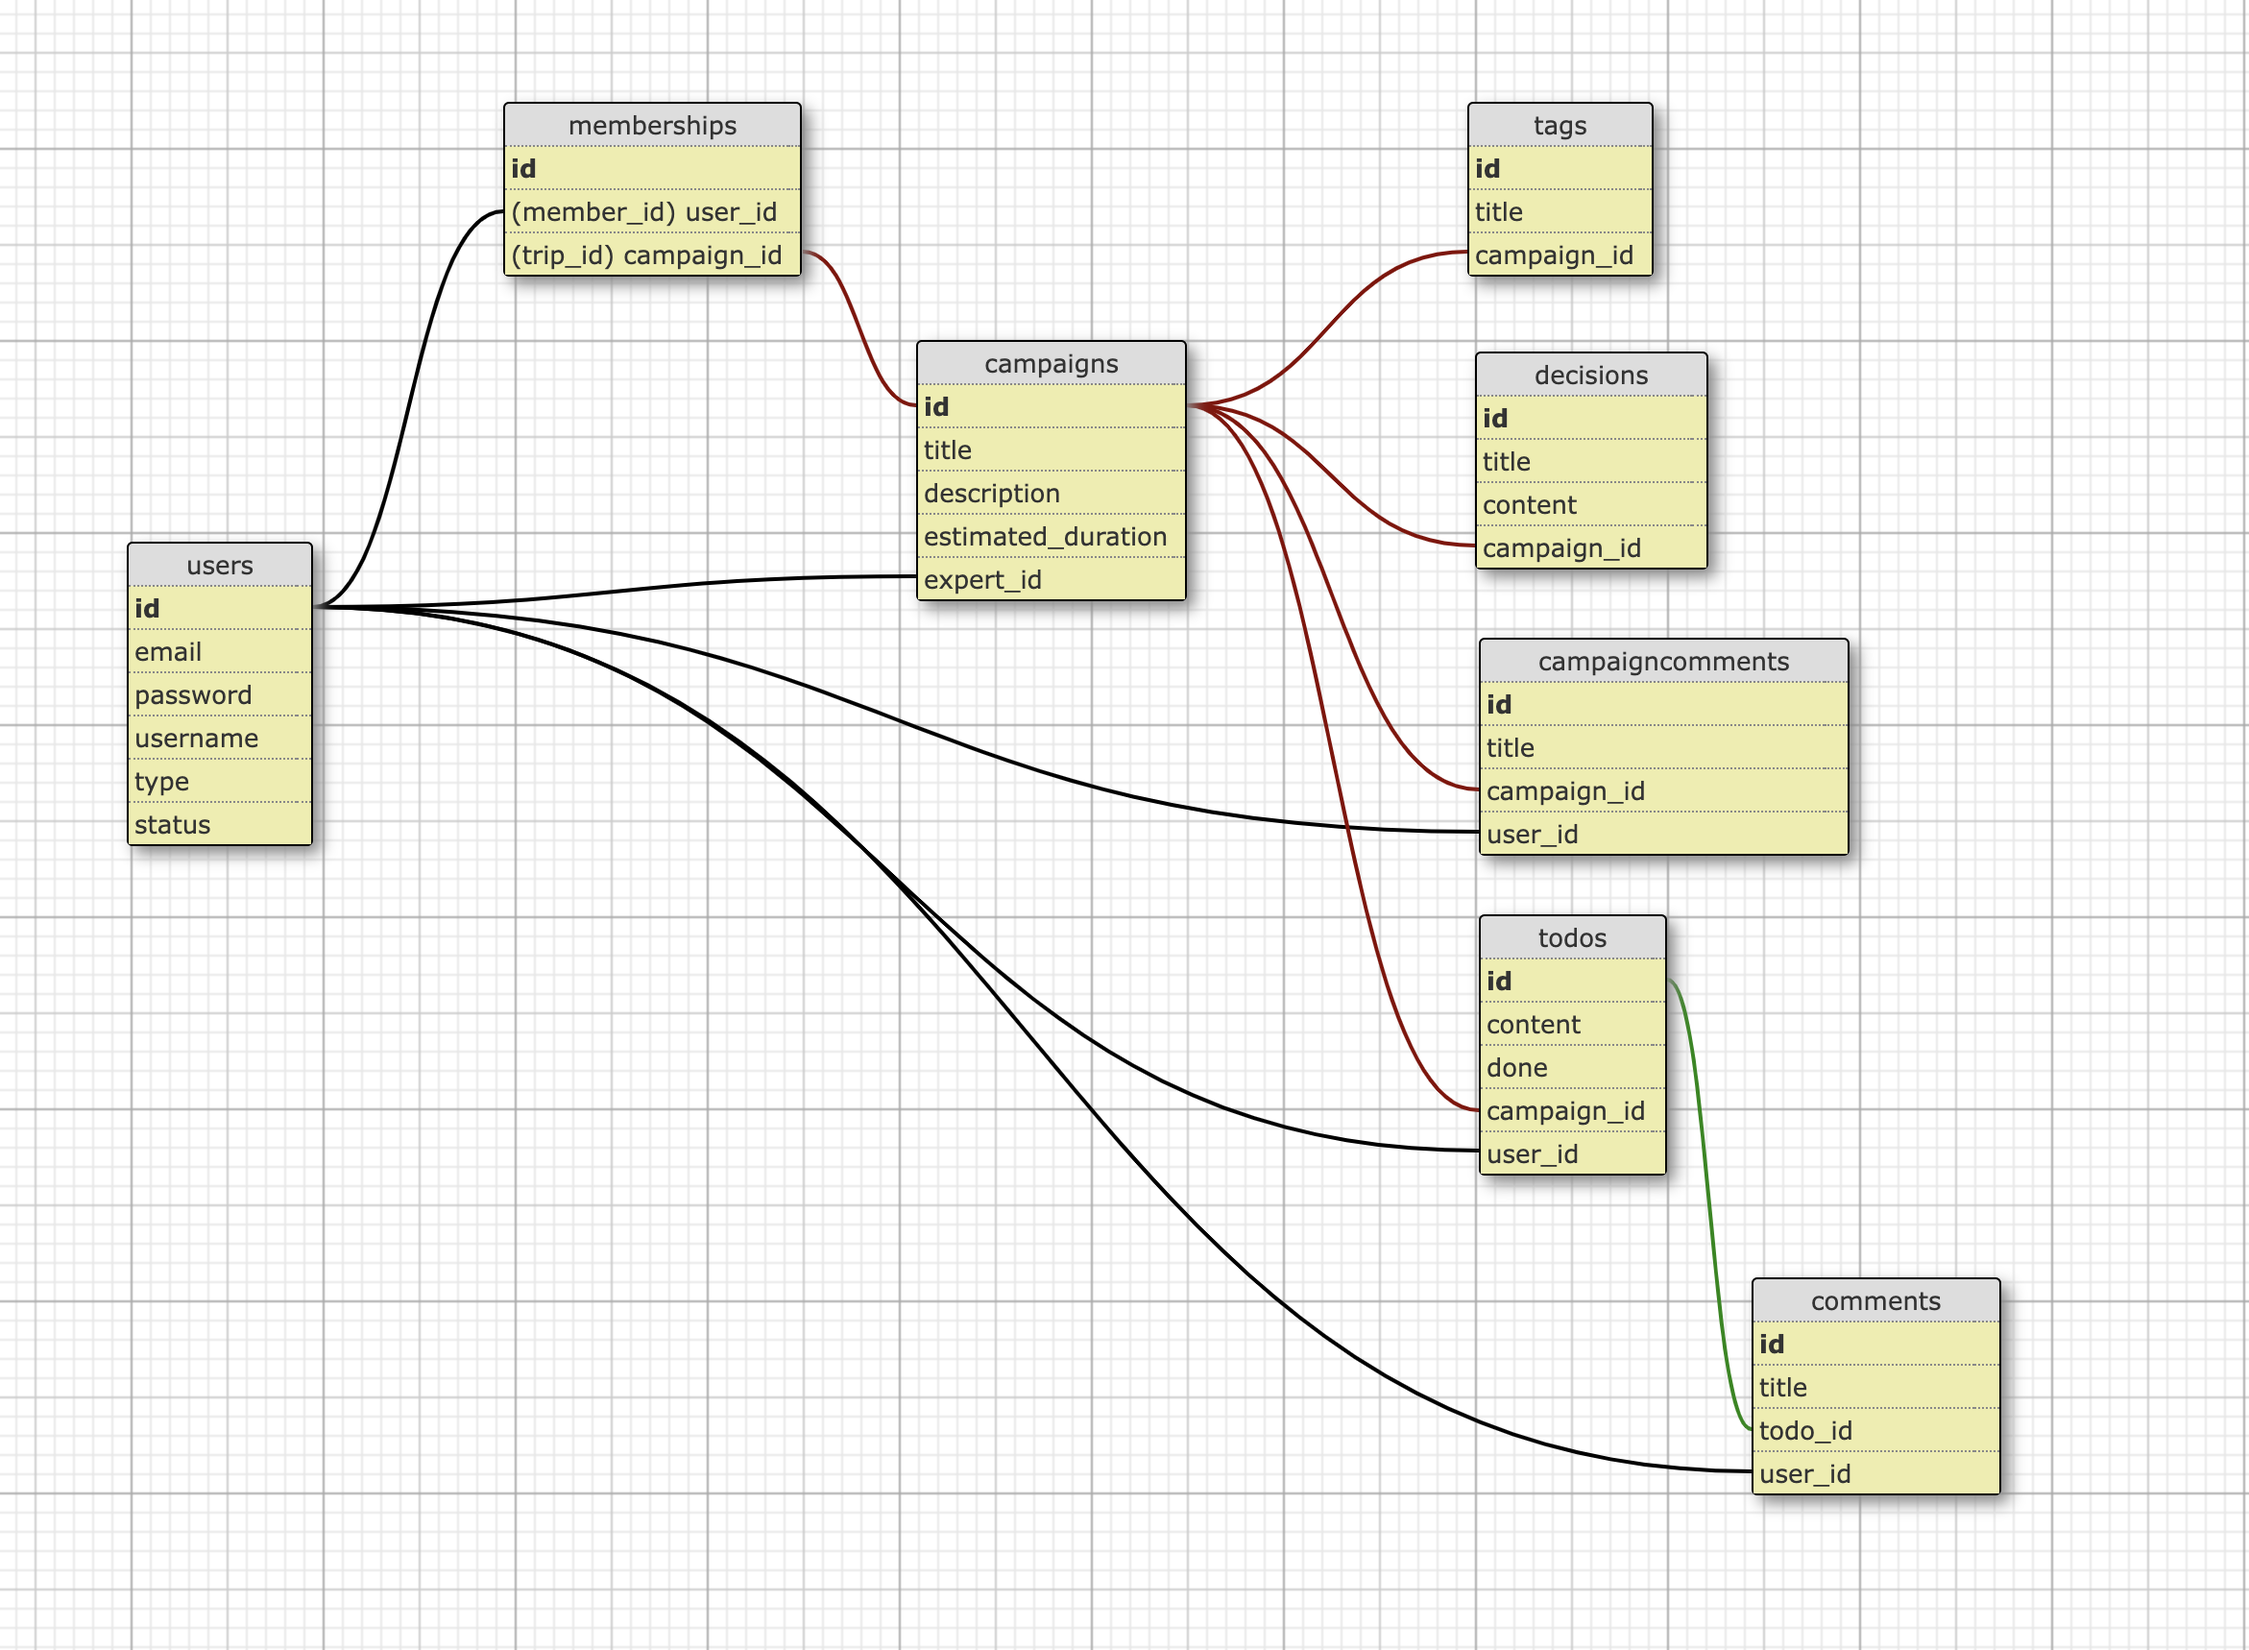
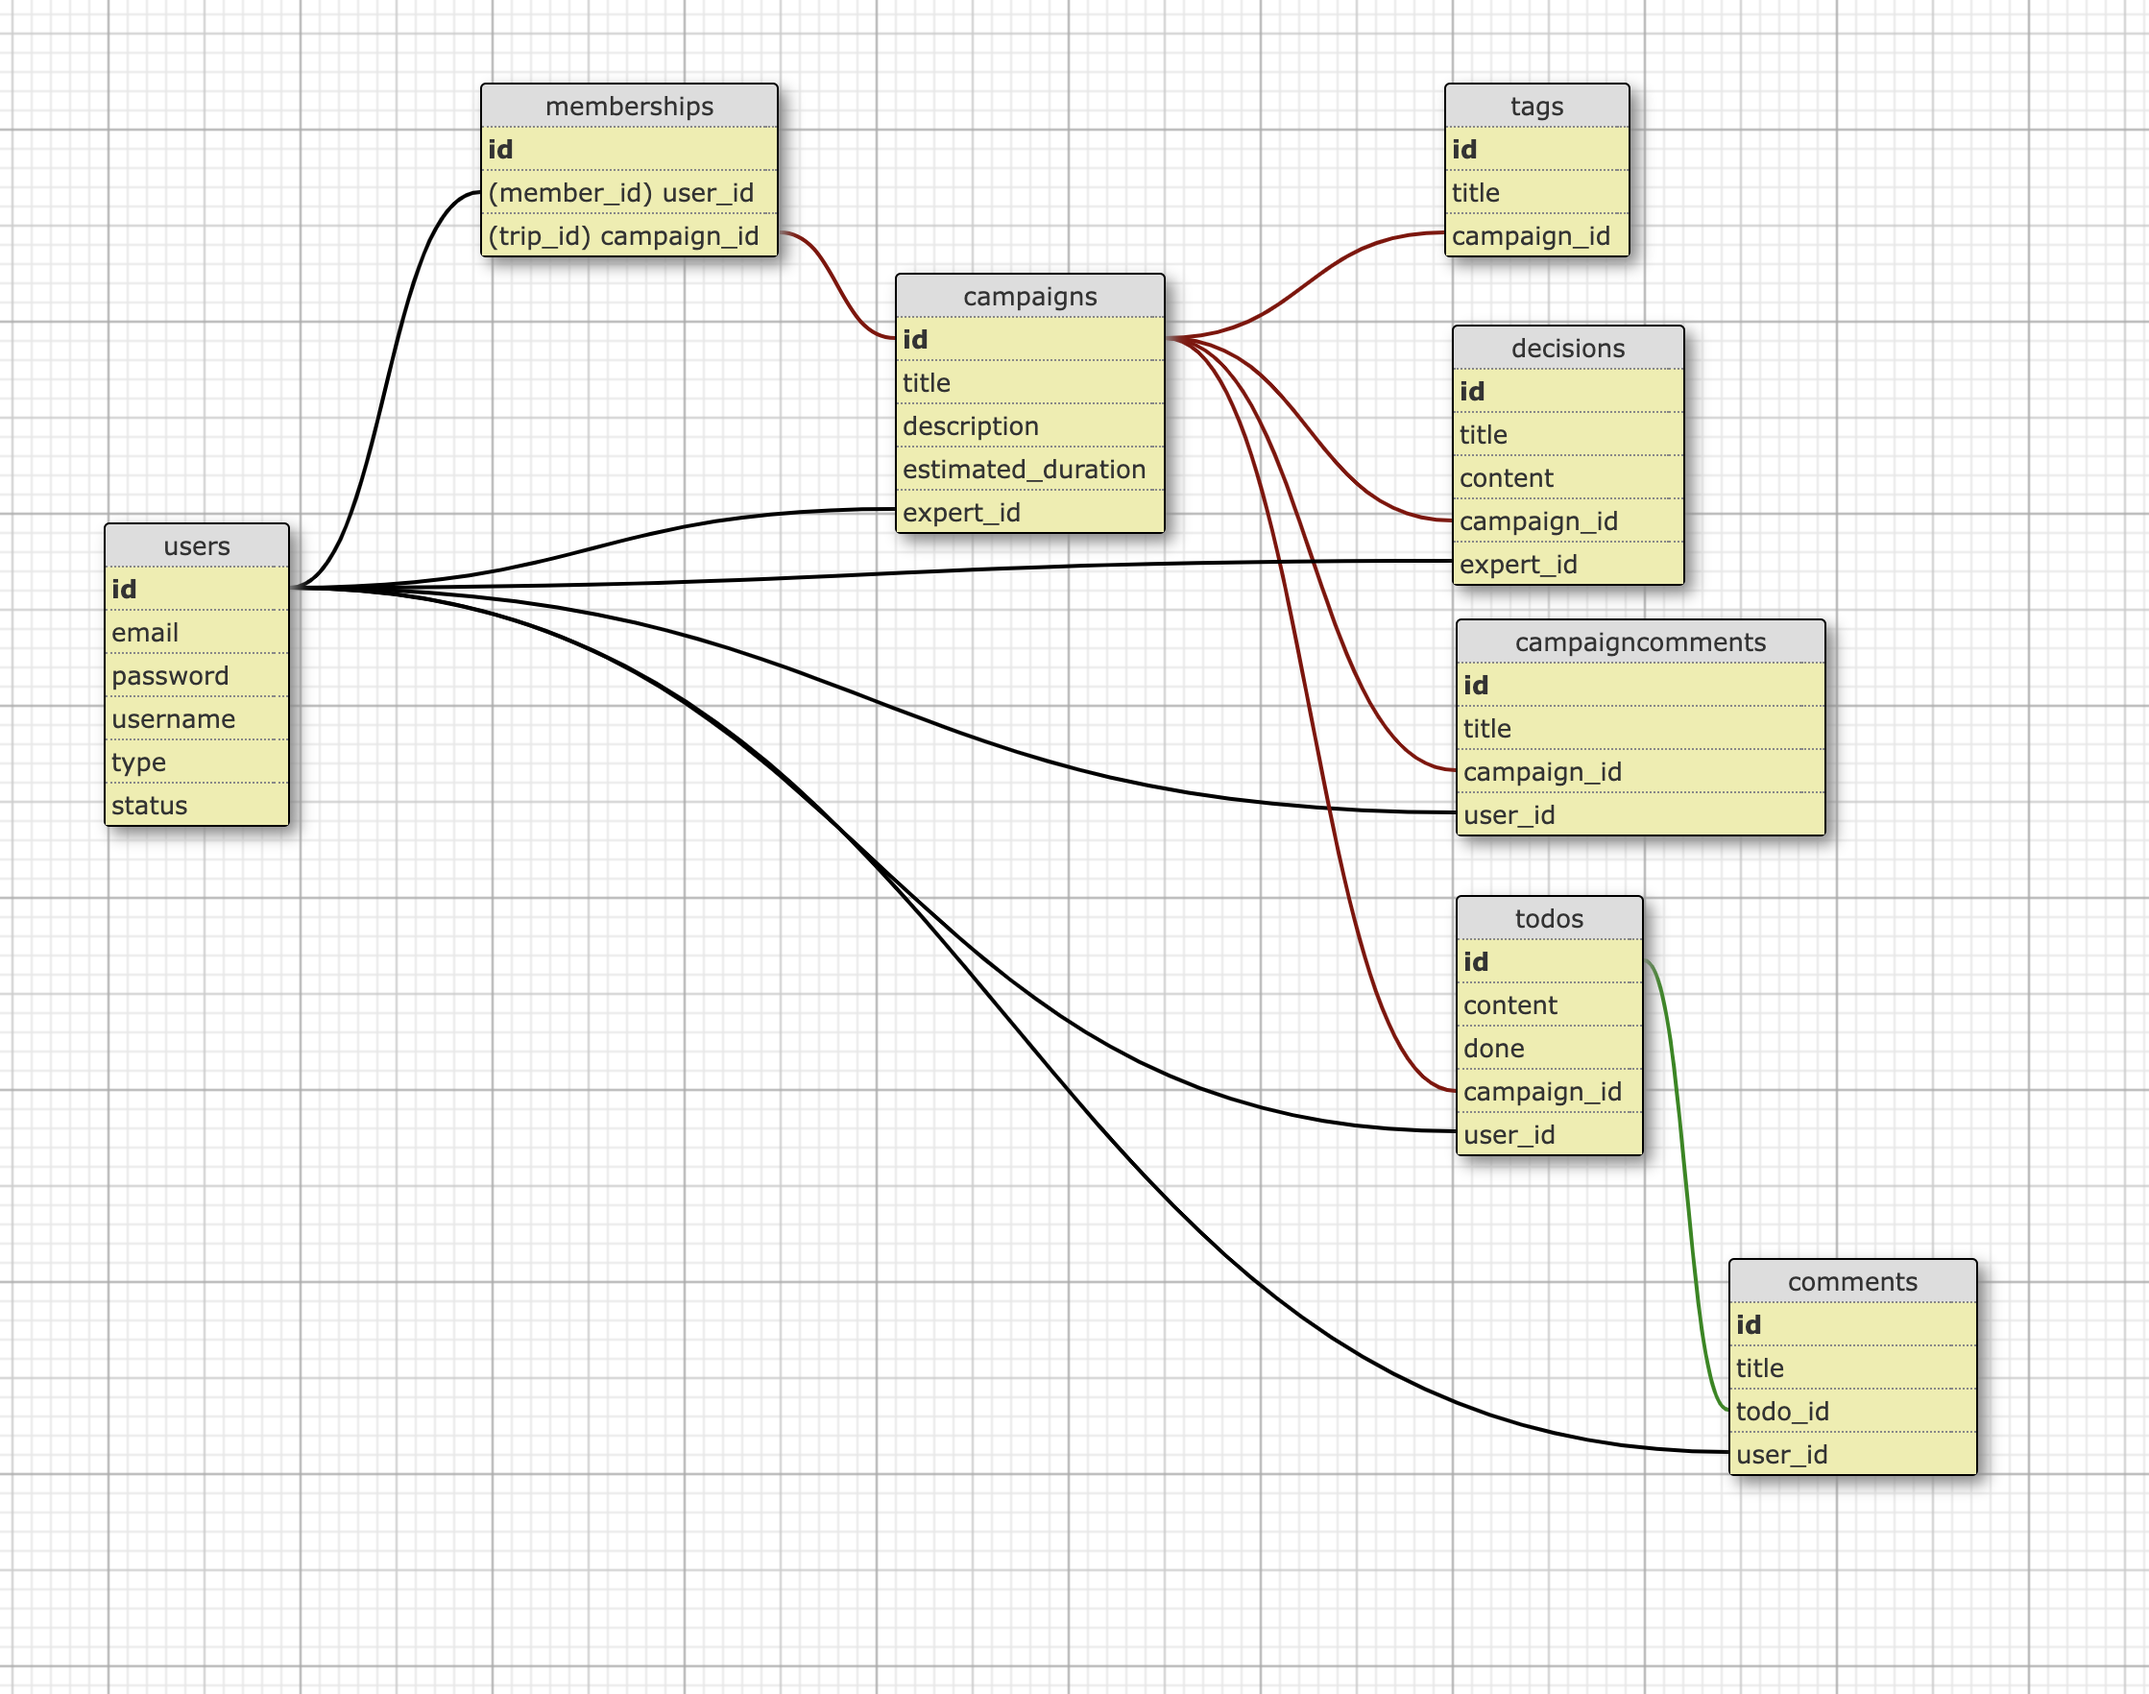
[TEST] Controller decision w/  tests and base view

diff --git a/test/controllers/decisions_controller_test.rb b/test/controllers/decisions_controller_test.rb
@@ -1,0 +1,40 @@
+require "test_helper"
+
+class DecisionsControllerTest < ActionDispatch::IntegrationTest
+  setup do
+    @campaign_tata = campaigns(:campaign_tata)
+    @expert = users(:toto)
+    @novice = users(:test)
+  end
+
+  test "should get all decisions of particular campaign" do
+    # decisions are only the title and content for non expert users
+    login_as @novice
+    get campaign_url(@campaign_tata)
+    assert_response :success
+    assert_select ".decision", /#{@campaign_tata.decisions.first.title}/
+    assert_select ".decision", /#{@campaign_tata.decisions.first.content}/
+    assert_select ".decision", /#{@campaign_tata.decisions.last.title}/
+    assert_select ".decision", /#{@campaign_tata.decisions.last.content}/
+  end
+
+  test "should allow experts to modify or delete decision" do
+    login_as @expert
+    get campaign_url(@campaign_tata)
+    assert_response :success
+    # to make sure it includes the delete btn for experts
+    assert_select ".decision" do
+      assert_select ".delete-btn"
+      assert_select ".edit-btn"
+    end
+  end
+
+  test "experts can create decision" do
+    login_as @expert
+    get campaign_url(@campaign_tata)
+    assert_response :success
+    assert_difference('Decision.count') do
+      post campaign_decisions_path(@campaign_tata), params: { decision: { title: "New decision", content: "This is a decision", campaign_id: @campaign_tata.id} }
+    end
+  end
+end

diff --git a/app/controllers/decisions_controller.rb b/app/controllers/decisions_controller.rb
@@ -1,0 +1,43 @@
+class DecisionsController < ApplicationController
+  def create
+    # for expert users only, handled through view
+    @decision = Decision.new(decision_params)
+    @decision.campaign = Campaign.find(params[:campaign_id])
+    @decision.expert = current_user if expert?
+    @campaign = @decision.campaign
+    if @decision.save
+      redirect_to @decision.campaign, notice: "Decision created"
+    else
+      redirect_to @campaign, alert: "Something went wrong, try again"
+    end
+  end
+
+  def update
+    # for expert users only, handled through view
+    @decision = Decision.find(params[:id])
+    @decision.update(decision_params)
+    if @decision.save
+      redirect_to @decision.campaign, notice: "Decision updated"
+    else
+      redirect_to @campaign, alert: "Something went wrong, try again"
+    end
+  end
+
+  def destroy
+    ## Link is in campaigns#show, giving access to experts only
+    @decision = Decision.find(params[:id])
+    @campaign = @decision.campaign
+    @decision.destroy
+    redirect_to campaign_path(@campaign), status: :see_other
+  end
+
+  private
+
+  def expert?
+    current_user.instance_of?(Expert)
+  end
+
+  def decision_params
+    params.require(:decision).permit(:title, :content, :campaign_id)
+  end
+end

diff --git a/test/models/decision_test.rb b/test/models/decision_test.rb
@@ -2,17 +2,17 @@ require "test_helper"
 
 class DecisionTest < ActiveSupport::TestCase
   test "decision must have title" do
-    decision = Decision.new(content: "test", campaign: campaigns(:campaign_toto))
+    decision = Decision.new(content: "test", campaign: campaigns(:campaign_toto), expert_id: users(:toto).id)
     assert_not decision.valid?, "Valid without title"
   end
 
   test "decision must belong to a campaign" do
-    decision = Decision.new(title: "test decision", content: "this is a decision")
+    decision = Decision.new(title: "test decision", content: "this is a decision", expert_id: users(:toto).id)
     assert_not decision.valid?, "Valid without a todo"
   end
 
   test "decision is valid with valid attributes" do
-    decision = Decision.new(title: "test", campaign: campaigns(:campaign_toto), content: "this is a decision")
+    decision = Decision.new(title: "test", campaign: campaigns(:campaign_toto), content: "this is a decision", expert_id: users(:toto).id)
     assert decision.valid?, "Invalid with valid attributes"
   end
 end

diff --git a/db/schema.rb b/db/schema.rb
@@ -10,7 +10,7 @@
 #
 # It's strongly recommended that you check this file into your version control system.
 
-ActiveRecord::Schema[7.0].define(version: 2023_10_20_092450) do
+ActiveRecord::Schema[7.0].define(version: 2023_10_20_094011) do
   # These are extensions that must be enabled in order to support this database
   enable_extension "plpgsql"
 
@@ -50,7 +50,9 @@ ActiveRecord::Schema[7.0].define(version: 2023_10_20_092450) do
     t.bigint "campaign_id"
     t.datetime "created_at", null: false
     t.datetime "updated_at", null: false
+    t.bigint "expert_id"
     t.index ["campaign_id"], name: "index_decisions_on_campaign_id"
+    t.index ["expert_id"], name: "index_decisions_on_expert_id"
   end
 
   create_table "memberships", force: :cascade do |t|

diff --git a/app/controllers/tags_controller.rb b/app/controllers/tags_controller.rb
@@ -3,7 +3,7 @@ class TagsController < ApplicationController
     ## New is in campaigns#index, giving access to campaign owner only
     @tag = Tag.new(tag_params)
     @tag.expert = current_user
-    @campaign = @tag.campaign
+    @campaign = @tag.campaign if expert?
 
     if @tag.save
       redirect_to @tag.campaign, notice: "Tag created"
@@ -21,6 +21,10 @@ class TagsController < ApplicationController
   end
 
   private
+
+  def expert?
+    current_user.instance_of?(Expert)
+  end
 
   def tag_params
     params.require(:tag).permit(:title, :campaign_id)

diff --git a/app/controllers/campaigns_controller.rb b/app/controllers/campaigns_controller.rb
@@ -14,10 +14,14 @@ class CampaignsController < ApplicationController
     @campaigncomment = Campaigncomment.new
     @todo = Todo.new
     @comment = Comment.new
+    @decision = Decision.new
 
     # Used in view to give access to owner only for : edit campaign / add or delete tag
     @owner = owner?(@campaign)
     @tag = Tag.new
+
+    # Used in view to give access to experts only for : create, edit or delete decisions
+    @expert = expert?
   end
 
   def create

diff --git a/config/routes.rb b/config/routes.rb
@@ -6,6 +6,7 @@ Rails.application.routes.draw do
   resources :campaigns, only: %i[index show create update destroy] do
     resources :tags, only: %i[create destroy]
     resources :campaigncomments, only: %i[create destroy]
+    resources :decisions, only: %i[create update destroy]
   end
 
 

diff --git a/app/models/decision.rb b/app/models/decision.rb
@@ -1,4 +1,5 @@
 class Decision < ApplicationRecord
-  belongs_to :campaign
-  validates :title, :content, :campaign_id, presence: true
+  belongs_to  :campaign
+  belongs_to  :expert
+  validates   :title, :content, presence: true
 end

diff --git a/app/models/expert.rb b/app/models/expert.rb
@@ -1,6 +1,7 @@
 class Expert < User
   has_many  :campaigns, dependent: :destroy
   has_many  :tags
+  has_many  :decisions
 
   STATUS = ["starter", "master", "guru"]
   validates :status, presence: true, inclusion: { in: STATUS }

diff --git a/db/migrate/20231020094011_add_expert_to_decisions.rb b/db/migrate/20231020094011_add_expert_to_decisions.rb
@@ -1,0 +1,5 @@
+class AddExpertToDecisions < ActiveRecord::Migration[7.0]
+  def change
+    add_reference :decisions, :expert
+  end
+end
